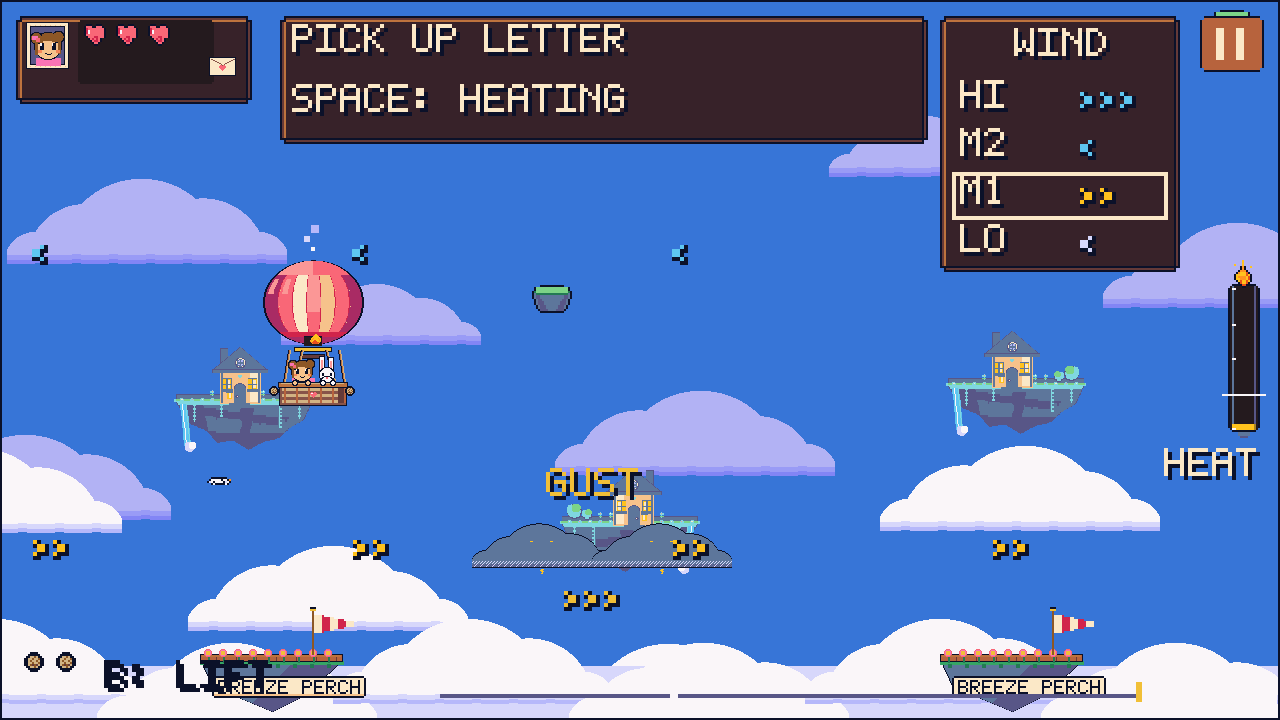
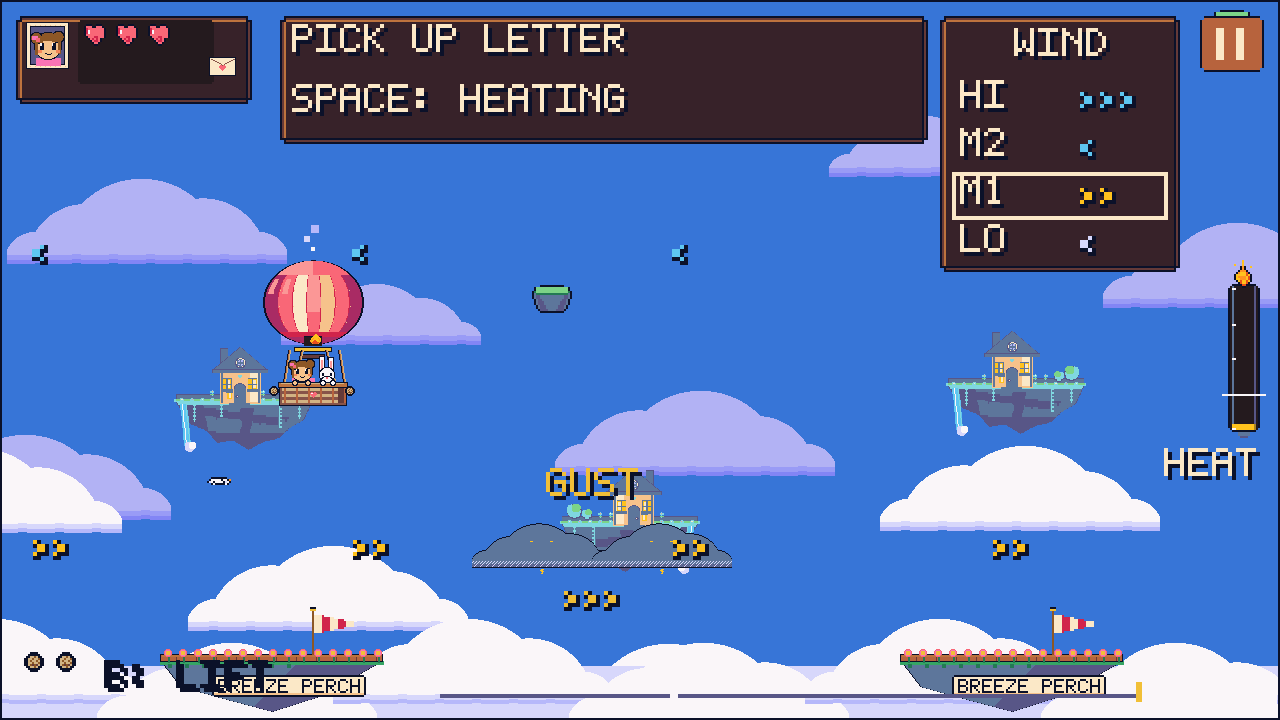
fix(perches): make rest landings clear and stable
Initiative: I35 (give the breeze perch a clear purpose).

Verified: npm run check; zero compiler warnings, 182 unit tests, 124 Playwright tests. Aseprite palette audit passes; desktop and narrow rest/takeoff screenshots reviewed. Steven confirmed the earlier sign jitter fix.

Changed region(s): [[0.6875, 0.8861, 0.875, 0.9778], [0.125, 0.8861, 0.3125, 0.9778]]

diff --git a/art/.art/generate.js b/art/.art/generate.js
@@ -424,9 +424,9 @@ function letter() {
   return px;
 }
 function perch() {
-  const px=polygon([[0,12],[12,38],[43,51],[72,63],[104,47],[143,12]],(x,y)=>x+y>105?PAL.rockD:PAL.rock);
-  px.push(...fillPixels(0,12,144,4,PAL.leaf),...obox(1,6,141,6,PAL.w1,PAL.K),...fillPixels(2,6,139,2,PAL.w0));
-  for(let x=16;x<140;x+=20)px.push(...fillPixels(x,8,1,4,PAL.w2));
+  const px=polygon([[0,12],[20,38],[67,51],[112,63],[162,47],[223,12]],(x,y)=>x+y>150?PAL.rockD:PAL.rock);
+  px.push(...fillPixels(0,12,224,4,PAL.leaf),...obox(1,6,221,6,PAL.w1,PAL.K),...fillPixels(2,6,219,2,PAL.w0));
+  for(let x=16;x<220;x+=20)px.push(...fillPixels(x,8,1,4,PAL.w2));
   for(let x=8;x<140;x+=17)px.push(...fillPixels(x,15,4,4,PAL.moss));
   return px;
 }
@@ -701,7 +701,7 @@ function gardenMill(frame) {
 }
 function gardenPerch() {
   const px=perch();
-  for(let x=8;x<140;x+=15) {
+  for(let x=8;x<220;x+=15) {
     px.push(...fillPixels(x,4,2,10,PAL.moss),...disc(x,4,3,PAL.dress,PAL.gP),...disc(x,4,1,PAL.gold));
   }
   return px;
@@ -709,7 +709,7 @@ function gardenPerch() {
 
 const SPRITES = {
   "garden-mill": {w:128,h:134,frames:[gardenMill(0),gardenMill(1)]},
-  "garden-perch": {w:144,h:64,frames:[gardenPerch()]},
+  "garden-perch": {w:224,h:64,frames:[gardenPerch()]},
   "toy-blocks": {w:128,h:134,frames:[toyBlocks()]},
   "title-logo": {w:700,h:176,frames:[titleLogo()]},
   "far-isle": {w:144,h:150,frames:[farIsle()]},
@@ -719,7 +719,7 @@ const SPRITES = {
   "parcel-teddy": {w:24,h:31,frames:[teddy()]},
   "parcel-bottle": {w:22,h:34,frames:[bottle()]},
   "parcel-letter": {w:30,h:22,frames:[letter()]},
-  "island-perch": {w:144,h:64,frames:[perch()]},
+  "island-perch": {w:224,h:64,frames:[perch()]},
   "balloon":      { w: 120, h: 150, frames: [0, 1, 2].map(f => balloonFrame(f)) },
   "balloon-happy": { w: 120, h: 150, frames: [0,1,2].map(f=>balloonFrame(f,"happy")) },
   "balloon-worried": { w: 120, h: 150, frames: [0,1,2].map(f=>balloonFrame(f,"worried")) },

diff --git a/tests/perch.spec.js b/tests/perch.spec.js
@@ -1,0 +1,20 @@
+const {test,expect}=require('@playwright/test');
+const path=require('path');
+const {bootGame,act,reviewShot,SHOTS_DIR,watchForErrors}=require('./support');
+
+test('a breeze perch explains its approach, parks the basket and launches with held heat',async({page},info)=>{
+ const errors=watchForErrors(page);await bootGame(page);await act(page,'settings=motion=1');await act(page,'reset=3535');await act(page,'step=1');
+ const deck=JSON.parse(await page.evaluate(()=>window.__GAME.raw('decks'))).find(d=>d.kind==='perch');
+ expect(deck.halfWidth).toBe(56);
+ const warp=y=>page.evaluate(({x,y})=>window.__GAME.raw('warp',`${x}=${y}`),{x:deck.x,y});
+ await warp(deck.altitude-20);expect((await page.evaluate(()=>window.__GAME.state())).hint).toBe('RISE ABOVE DECK');
+ await warp(deck.altitude+30);expect((await page.evaluate(()=>window.__GAME.state())).hint).toBe('LAND TO REST');
+ await warp(deck.altitude+.01);await act(page,'step=1');await act(page,'screen=world');
+ let state=await page.evaluate(()=>window.__GAME.state());expect(state.parked).toBe(true);expect(state.hint).toBe('PERCHED: SPACE');
+ const x=state.x;await act(page,'step=180');state=await page.evaluate(()=>window.__GAME.state());
+ expect(state.x).toBe(x);expect(state.altitude).toBe(deck.altitude);expect(state.velocityX).toBe(0);expect(state.cargoStatus).toBe('carried');
+ await reviewShot(page,{path:path.join(SHOTS_DIR,`35-perch-rest-${info.project.name}.png`)});
+ await page.evaluate(async()=>{await window.__GAME.set('heat',1);await window.__GAME.step(120);});state=await page.evaluate(()=>window.__GAME.state());
+ expect(state.altitude).toBeGreaterThan(deck.altitude+8);expect(state.parked).toBe(false);expect(state.support).toBe('air');
+ await reviewShot(page,{path:path.join(SHOTS_DIR,`35-perch-takeoff-${info.project.name}.png`)});expect(errors).toEqual([]);
+});

diff --git a/Balloonatic/Balloonatic.Core/PlatformContact.cs b/Balloonatic/Balloonatic.Core/PlatformContact.cs
@@ -1,7 +1,7 @@
 using System;
 namespace Balloonatic.Core;
 
-/// <summary>One-way timber surfaces support the basket footprint; wind still moves a landed craft.</summary>
+/// <summary>One-way timber surfaces support the basket footprint; rest perches park an unheated craft.</summary>
 public static class PlatformContact
 {
     static bool Overlaps(float x,float centre,float halfWidth)=>
@@ -25,18 +25,19 @@ public static class PlatformContact
         if(state.VelocityY>=0f)return;
         float surface=float.NegativeInfinity;
         bool recipient=false;
-        void Check(float centre,float height,float halfWidth,bool delivery)
+        bool perch=false;float stopX=state.X;
+        void Check(float centre,float height,float halfWidth,bool delivery,bool restingPerch=false)
         {
             if(height<=surface||previousAltitude<height||state.Altitude>height)return;
             float fall=previousAltitude-state.Altitude;
             float time=fall>0f?(previousAltitude-height)/fall:0f;
             float contactX=previousX+(state.X-previousX)*time;
             if(!Overlaps(contactX,centre,halfWidth))return;
-            surface=height;recipient=delivery;
+            surface=height;recipient=delivery;perch=restingPerch;stopX=contactX;
         }
         Check(0,SimTuning.DeckTopAltitude,SimTuning.DeckHalfWidth,false);
         Check(level.CourseLength,SimTuning.DeckTopAltitude,SimTuning.DeckHalfWidth,true);
-        foreach(RestDeck deck in level.Platforms)Check(deck.X,deck.Altitude,deck.HalfWidth,false);
+        foreach(RestDeck deck in level.Platforms)Check(deck.X,deck.Altitude,deck.HalfWidth,false,true);
         if(float.IsNegativeInfinity(surface))return;
         state.Altitude=surface;
         if(-state.VelocityY>SimTuning.SoftLandingVy) {
@@ -44,6 +45,7 @@ public static class PlatformContact
             state.Bounces++;state.BounceTick=state.Tick;return;
         }
         state.VelocityY=0f;
+        if(perch&&!state.Heating) {state.X=stopX;state.VelocityX=0f;}
         if(!recipient||state.Cargo!=level.Package||Math.Abs(state.X-level.CourseLength)>SimTuning.RecipientHalfWidth)return;
         state.Cargo=CargoKind.None;state.Delivered=true;state.Complete=true;state.CompletedAtTick=state.Tick;
         state.Stars=1+(state.Tick<=level.ParSeconds*Sim.StepHz?1:0)+(state.Bounces==0?1:0);

diff --git a/Balloonatic/Balloonatic.Tests/PerchTests.cs b/Balloonatic/Balloonatic.Tests/PerchTests.cs
@@ -1,0 +1,34 @@
+using Balloonatic.Core;
+using FluentAssertions;
+using Xunit;
+namespace Balloonatic.Tests;
+
+public class PerchTests
+{
+    [Theory][InlineData("nursery-skies")][InlineData("winding-trail")][InlineData("night-crossing")]
+    public void Each_perch_parks_the_basket_until_the_burner_is_held(string id)
+    {
+        LevelDef level=LevelCatalog.Get(id);
+        foreach(RestDeck deck in level.Platforms) {
+            SimState state=new(){LevelId=id,X=deck.X,Altitude=deck.Altitude+.01f,VelocityY=-5,
+                VelocityX=level.WindAt(deck.Altitude),Cargo=level.Package};
+            SimRules.Step(state,SimInput.None,level,hazards:false);
+            float parkedX=state.X;
+            for(int i=0;i<600;i++)SimRules.Step(state,SimInput.None,level,hazards:false);
+            state.X.Should().Be(parkedX);state.Altitude.Should().Be(deck.Altitude);
+            state.VelocityX.Should().Be(0);state.VelocityY.Should().Be(0);state.Cargo.Should().Be(level.Package);
+            state.Complete.Should().BeFalse();FlightGuidance.ControlHint(state,level).Should().Be("PERCHED: SPACE");
+            for(int i=0;i<120;i++)SimRules.Step(state,new SimInput{Heat=true},level,hazards:false);
+            state.Altitude.Should().BeGreaterThan(deck.Altitude+8);PlatformContact.Support(state,level).Should().Be("air");
+        }
+    }
+    [Fact]
+    public void Nearby_guidance_explains_approaching_from_above_and_releasing_to_rest()
+    {
+        LevelDef level=LevelCatalog.Get(LevelCatalog.DefaultId);
+        SimState state=new(){X=220,Altitude=100};
+        FlightGuidance.ControlHint(state,level).Should().Be("RISE ABOVE DECK");
+        state.Altitude=150;FlightGuidance.ControlHint(state,level).Should().Be("LAND TO REST");
+        state.Heating=true;FlightGuidance.ControlHint(state,level).Should().Be("LET GO TO LAND");
+    }
+}

diff --git a/Balloonatic/Balloonatic.Core/FlightGuidance.cs b/Balloonatic/Balloonatic.Core/FlightGuidance.cs
@@ -18,11 +18,15 @@ public static class FlightGuidance
         state.Temperature > SimTuning.TempAmbient + .01f ? "cooling" : "cool";
 
     public static string ControlHint(SimState state, LevelDef level) {
+        if(PlatformContact.Support(state,level)=="perch")return state.Heating?"HOLD TO LIFT":"PERCHED: SPACE";
         if(!state.Complete&&PlatformContact.Support(state,level)=="delivery")return "DECK: DRIFT IN";
         foreach(StormZone zone in level.Storms) {
             if(Math.Abs(state.Altitude-(zone.FromAltitude+zone.ToAltitude)/2)<70 && state.X>=zone.FromX-120 && state.X<=zone.ToX)
                 return state.WindAssist?"ASSIST: CALM AIR":state.X<zone.FromX?"GUST AHEAD":"GUST: WATCH WIND";
         }
+        foreach(RestDeck deck in level.Platforms)
+            if(Math.Abs(state.X-deck.X)<deck.HalfWidth+60 && state.Altitude>deck.Altitude-80 && state.Altitude<deck.Altitude+100)
+                return state.Altitude<deck.Altitude?"RISE ABOVE DECK":state.Heating?"LET GO TO LAND":"LAND TO REST";
         return state.Altitude >= level.WorldHeight-.5f ? "LET GO TO DESCEND" :
             level.Bands[0].Direction < 0 && BandIndex(state,level)==0 && state.X<level.CourseLength-160 ? "RISE FOR > WIND" :
             state.Heating ? "SPACE: HEATING" : HeatTrend(state)=="cooling" ? "COOLING..." : "SPACE: RISE";
@@ -31,6 +35,7 @@ public static class FlightGuidance
     public static string Approach(SimState state, LevelDef level)
     {
         if(state.Delivered)return "delivered";
+        if(PlatformContact.Support(state,level)=="perch")return "perched";
         if(PlatformContact.Support(state,level)=="delivery")return "landed";
         if(Math.Abs(state.X-level.CourseLength)>160f || state.Altitude>SimTuning.DeckTopAltitude+140f)return "travel";
         if(state.VelocityY < -SimTuning.SoftLandingVy)return "fast";

diff --git a/Balloonatic/Balloonatic.Core/Level.cs b/Balloonatic/Balloonatic.Core/Level.cs
@@ -339,7 +339,7 @@ namespace Balloonatic.Core
                     new RockDef(300f, 320f, 8f, 240, 0),
                     new RockDef(540f, 340f, 8f, 300, 90),
                     new RockDef(200f, 345f, 4f, 240, 40),
-                }, package: CargoKind.Bottle, platforms: new[] { new RestDeck(220f, 120f, 36f) }),
+                }, package: CargoKind.Bottle, platforms: new[] { new RestDeck(220f, 120f, 56f) }),
 
             // Toy Isles, a zigzag: the middle air sprints, the upper air rebukes you, and the low air —
             // the air a landing is made from — carries gently home. The bird works the mid sprint and
@@ -365,7 +365,7 @@ namespace Balloonatic.Core
                 birds: new[]
                 {
                     new BirdDef(new[] { 440f, 520f }, new[] { 280f, 240f }, 40f),
-                }, platforms: new[] { new RestDeck(200f,165f,36f) }),
+                }, platforms: new[] { new RestDeck(200f,165f,56f) }),
 
             // Cloud Garden, the long haul: a fast ceiling over a calm floor. The middle air barely
             // carries and the air at the ceiling is the only real pace — go up to cross, come down to
@@ -396,7 +396,7 @@ namespace Balloonatic.Core
                 storms: new[]
                 {
                     new StormZone(380f, 500f, 210f, 236f, 12f),
-                }, package: CargoKind.Letter, platforms: new[] {new RestDeck(280f,170f,36f),new RestDeck(650f,170f,36f)}),
+                }, package: CargoKind.Letter, platforms: new[] {new RestDeck(280f,170f,56f),new RestDeck(650f,170f,56f)}),
         };
 
         public static bool TryGet(string? id, out LevelDef level)

diff --git a/Balloonatic/Balloonatic.Tests/PlatformContactTests.cs b/Balloonatic/Balloonatic.Tests/PlatformContactTests.cs
@@ -55,11 +55,11 @@ public class PlatformContactTests
         state.Altitude.Should().Be(38);state.CompletedAtTick.Should().BeGreaterThan(60);
     }
     [Fact]
-    public void A_resting_perch_uses_the_wind_at_its_surface_not_the_layer_under_the_planks()
+    public void A_heating_perch_uses_the_surface_wind_while_unmooring()
     {
         LevelDef level=LevelCatalog.Get(LevelCatalog.DefaultId);
         SimState state=new(){X=220,Altitude=120,VelocityX=level.WindAt(120)};
-        SimRules.Step(state,SimInput.None,level,hazards:false);
+        SimRules.Step(state,new SimInput{Heat=true},level,hazards:false);
         state.VelocityX.Should().Be(level.WindAt(120));state.Altitude.Should().Be(120);
     }
     [Fact]
@@ -89,7 +89,7 @@ public class PlatformContactTests
             float wind=level.WindAt(deck.Altitude);
             SimState leaving=new(){LevelId=id,X=deck.X+Math.Sign(wind)*(deck.HalfWidth+SimTuning.BasketFootHalfWidth-.05f),
                 Altitude=deck.Altitude,VelocityX=wind};
-            for(int i=0;i<10;i++)SimRules.Step(leaving,SimInput.None,level,hazards:false);
+            for(int i=0;i<10;i++)SimRules.Step(leaving,new SimInput{Heat=true},level,hazards:false);
             leaving.Altitude.Should().BeLessThan(deck.Altitude);leaving.Delivered.Should().BeFalse();
             SimState below=new(){LevelId=id,X=deck.X,Altitude=deck.Altitude-1};
             SimRules.Step(below,SimInput.None,level,hazards:false);

diff --git a/Balloonatic/Balloonatic.Game/Screens/WorldScreen.cs b/Balloonatic/Balloonatic.Game/Screens/WorldScreen.cs
@@ -87,6 +87,12 @@ namespace Balloonatic.Screens
             int font=Kit.Body(canvas);
             if (!state.Complete) {
                 string approach=FlightGuidance.Approach(state,level);
+                if(approach=="perched") {
+                    Kit.Panel(canvas,new Rectangle(96,258,448,64));
+                    PixelFont.DrawCenteredShadowed(canvas,"REST + READ WIND",320,268,Theme.GrassLight,font);
+                    PixelFont.DrawCenteredShadowed(canvas,state.Heating?"BURNER WARMING...":"HOLD SPACE TO LIFT",320,296,Theme.TagCream,font);
+                    return;
+                }
                 string message=state.Recoveries>0 && state.Tick-state.RecoveryTick<180 ? "TRY ANOTHER APPROACH"
                     : approach=="landed" ? "LANDED: DRIFT IN" : approach=="fast" ? "TAP HEAT TO BRAKE" : approach=="rising" ? "RELEASE EARLY TO SETTLE" : approach=="gentle" ? "GENTLE APPROACH" : "";
                 if(message.Length>0) {

diff --git a/Balloonatic/Balloonatic.Core/TestHarness.cs b/Balloonatic/Balloonatic.Core/TestHarness.cs
@@ -428,6 +428,7 @@ namespace Balloonatic.Core
               .Append("\"recipient\":\"").Append(level.DestinationName).Append("\",")
               .Append("\"platforms\":").Append(level.Platforms.Length).Append(',')
               .Append("\"support\":\"").Append(PlatformContact.Support(_state,level)).Append("\",")
+              .Append("\"parked\":").Append(PlatformContact.Support(_state,level)=="perch"&&!_state.Heating&&_state.VelocityX==0?"true":"false").Append(',')
               .Append("\"expression\":\"").Append(FlightGuidance.Expression(_state)).Append("\",")
               .Append("\"atCeiling\":").Append(_state.Altitude >= level.WorldHeight - .5f ? "true" : "false").Append(',')
               .Append("\"windAssist\":").Append(_state.WindAssist ? "true" : "false").Append(',')

diff --git a/docs/BASELINE.md b/docs/BASELINE.md
@@ -421,8 +421,8 @@ shared font masks. `raw('worldsigns')` reports those actual placements; fraction
 retain fixed sign-to-platform offsets on the half-design-pixel world grid.
 
 Deck contacts sweep horizontal and vertical movement together. The 33px basket base can overhang
-the edge of any timber deck; soft contact zeroes vertical velocity and keeps wind-driven horizontal
-motion. The recipient occupies the inner 72px of the 112px destination deck. Landing outside that
+the edge of any timber deck; soft contact zeroes vertical velocity. Launch and delivery decks keep
+wind-driven horizontal motion. The recipient occupies the inner 72px of the 112px destination deck. Landing outside that
 area permits sliding into it; contact inside delivers immediately with the right parcel. Heating
 can lift off again; leaving an edge falls, and a deck cannot catch a basket from below. Hard arrivals
 still bounce. A resting craft samples wind at its surface rather than through the planks.
@@ -431,3 +431,9 @@ still bounce. A resting craft samples wind at its surface rather than through th
 the physical state (`air`, `ground`, `launch`, `delivery`, `perch`), never stored by rendering.
 Landed approach feedback says `DECK: DRIFT IN` / `LANDED: DRIFT IN`. Evidence: `31-credits-*`,
 `32-signs-phase*-*` and `33-{perch-edge,slide-contact,slide-travel,slide-home}-*` at both sizes.
+
+Follow-up perch purpose: foreground rest decks are 112px wide. A gentle unheated touchdown parks the
+basket at its contact point, with zero horizontal velocity; holding heat unmoors it while the burner
+warms for takeoff. Delivery decks retain their sliding rule. Nearby HUD hints teach rising above the
+deck and releasing heat; a parked basket displays `REST + READ WIND` and `HOLD SPACE TO LIFT`.
+`state.parked` is derived from perch contact, heat and velocity. Evidence: `35-perch-{rest,takeoff}-*`.

diff --git a/PLAN.md b/PLAN.md
@@ -164,6 +164,14 @@ recoverable flight, one meaningful beautiful delivery, readable UI and WebGL val
   Takeoff, edge departure, hard bounces, both wind directions and surface-band sampling are covered.
   `state.support` / `raw('decks')` expose real contact state/data. Reviewed all `33-*` at both sizes;
   the full normal-collision voyage and spent-ballast recovery remain green.
+- [x] **I35 — Give the breeze perch a clear purpose** (~60m)
+  Steven confirms jitter is fixed, but cannot tell how to land on or use the perch. Widen its timber
+  surface, park the basket on a gentle unheated touchdown, explain resting/wind reading and holding
+  Space to lift off. Keep delivery-deck sliding. Verify stable rest and takeoff in both heads.
+  Verified: zero compiler warnings, 182 unit tests and 124 browser tests. All four perches hold an
+  unheated basket for ten simulated seconds and release it on heat; normal-collision routes and
+  delivery sliding still pass. The Aseprite deck is now 112px wide, matching its surface. Reviewed
+  `35-perch-{rest,takeoff}-*` at both sizes and refreshed the desktop preview for Steven.
 - [ ] **I34 — Refresh the corrected review package** (~45m)
   Fresh-clone and extracted-archive checks for the playtest fixes; refresh candidate evidence and ZIP.
 

diff --git a/README.md b/README.md
@@ -48,6 +48,8 @@ the planks into the recipient area. Heating lifts off again. A missed course ret
 approach, preserving cargo and spent bags. All ballast loadouts can descend and land.
 
 Nursery Skies teaches burner/cooling and a breeze perch. Toy Isles needs a climb out of homeward air.
+Approach a breeze perch from above and release heat to land. It parks the basket for a rest and a
+look at the wind ladder; hold Space to warm the burner and lift off again. Destination decks allow sliding.
 Cloud Garden adds a marked gust bank and resting flower perches. Wind Assist removes gust buffeting;
 Reduced Motion stills decorative frames, drift, shake and transitions. Music and effects have separate
 0–10 controls. Play requires a keyboard or mouse; the narrow layout is verified at 420×760.
